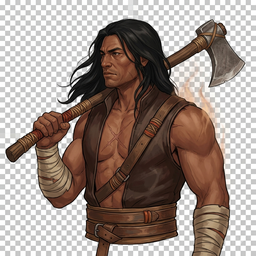
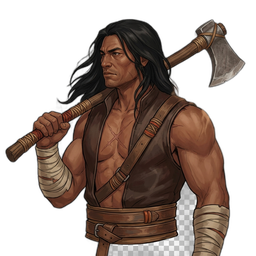
Fix transparansi art Berserker + restrukturisasi layout subclass detail
BUG FIX: gambar dari Gemini yang diupload sebelumnya ternyata BUKAN transparent PNG
asli - checkerboard yang keliatan itu digambar sebagai pixel biasa (alpha selalu 255,
fully opaque). Diproses ulang pakai rembg (AI background removal) supaya alpha channel
beneran bervariasi (0-255), baru di-crop+resize ke 256x256 & 512x1024.

LAYOUT: Classes/Show.jsx dirombak -
- Avatar sekarang bersebelahan dengan Stats (row 2 kolom)
- Full Body bersebelahan dengan Skill Fisik/Magic/Ultimate (sticky di sisi kiri
  saat scroll skill list)
- ArtUploadSlot dirender 2 layer: background (bawah) + karakter transparan (atas,
  object-fit contain biar gak terpotong/stretch)
- Avatar pakai background warna solid (tint warna class) sementara
- Full Body pakai background scene dari file yang diupload user (fullbody-bg.jpg,
  shared asset semua subclass) - disimpan di public/images/subclasses/backgrounds/

Catatan: avatar-bg.jpg (dari avatar.png yang diupload) disiapkan di folder tapi
belum dipakai - avatar masih pakai warna solid dulu sesuai instruksi 'sementara'.

diff --git a/resources/js/Pages/Classes/Show.jsx b/resources/js/Pages/Classes/Show.jsx
@@ -9,7 +9,7 @@ const CLASS_META = {
     saint: { accent: '#c9a24b' },
 };
 
-function ArtUploadSlot({ label, spec, currentUrl, fieldName, uploadUrl, aspect }) {
+function ArtUploadSlot({ label, spec, currentUrl, fieldName, uploadUrl, aspect, background }) {
     const inputRef = useRef(null);
     const { setData, progress, errors } = useForm({ [fieldName]: null });
 
@@ -42,19 +42,23 @@ function ArtUploadSlot({ label, spec, currentUrl, fieldName, uploadUrl, aspect }
                 style={{
                     position: 'relative',
                     aspectRatio: aspect,
-                    background: currentUrl ? `#000 url(${currentUrl}) center/cover no-repeat` : 'var(--bg-panel)',
-                    border: currentUrl ? '1px solid var(--border-subtle)' : '1px dashed var(--border-subtle)',
+                    background,
+                    border: '1px solid var(--border-subtle)',
                     borderRadius: 10,
-                    display: 'flex',
-                    alignItems: 'center',
-                    justifyContent: 'center',
                     overflow: 'hidden',
                 }}
             >
+                {currentUrl && (
+                    <img
+                        src={currentUrl}
+                        alt={label}
+                        style={{ position: 'absolute', inset: 0, width: '100%', height: '100%', objectFit: 'contain' }}
+                    />
+                )}
                 {!currentUrl && (
                     <div
                         onClick={openPicker}
-                        style={{ position: 'absolute', inset: 0, display: 'flex', alignItems: 'center', justifyContent: 'center', cursor: 'pointer', color: 'var(--text-muted)', fontSize: '0.8rem' }}
+                        style={{ position: 'absolute', inset: 0, display: 'flex', alignItems: 'center', justifyContent: 'center', cursor: 'pointer', color: 'var(--text-muted)', fontSize: '0.8rem', background: 'rgba(11,12,18,0.35)' }}
                     >
                         Klik atau drop gambar di sini
                     </div>
@@ -125,6 +129,11 @@ export default function Show({ subclass }) {
     const magicSkills = subclass.skills.filter((s) => s.tier !== 3 && s.scaling_stat === 'magic');
     const ultimateSkills = subclass.skills.filter((s) => s.tier === 3);
 
+    // Avatar: sementara pakai warna solid (tint warna class) sambil nunggu background art per-subclass.
+    const avatarBackground = `radial-gradient(circle at 50% 30%, ${accent}2e, var(--bg-panel) 75%)`;
+    // Full body: pakai background scene yang diupload (shared asset, dipakai semua subclass untuk sekarang).
+    const fullBodyBackground = "url('/images/subclasses/backgrounds/fullbody-bg.jpg') center/cover no-repeat";
+
     return (
         <Layout>
             <Head title={subclass.name} />
@@ -138,7 +147,7 @@ export default function Show({ subclass }) {
                         <img
                             src={subclass.avatar_path}
                             alt={subclass.name}
-                            style={{ width: 64, height: 64, borderRadius: '50%', objectFit: 'cover', border: `2px solid ${accent}`, flexShrink: 0 }}
+                            style={{ width: 64, height: 64, borderRadius: '50%', objectFit: 'cover', border: `2px solid ${accent}`, flexShrink: 0, background: 'var(--bg-panel)' }}
                         />
                     ) : (
                         <div className="rpg-badge-hex" style={{ '--accent': accent, width: 64, height: 64, fontSize: '1.6rem' }}>
@@ -158,44 +167,38 @@ export default function Show({ subclass }) {
                     <p className="rpg-flavor-note" style={{ color: accent }}>{subclass.flavor_bonus}</p>
                 )}
 
-                <div className="row g-3 my-4">
-                    {[
-                        ['Physical Damage', subclass.base_physical_damage, '#b8433a'],
-                        ['Physical Defense', subclass.base_physical_defense, '#c98a3a'],
-                        ['Magic Damage', subclass.base_magic_damage, '#7269d1'],
-                        ['Magic Defense', subclass.base_magic_defense, '#3f8c94'],
-                    ].map(([label, val, color]) => (
-                        <div className="col-6 col-md-3" key={label}>
-                            <div className="rpg-card text-center" style={{ '--accent': color }}>
-                                <div style={{ fontFamily: 'var(--font-mono)', fontSize: '1.6rem', fontWeight: 600, color }}>
-                                    {val}
-                                </div>
-                                <div className="rpg-power-type mt-1">{label}</div>
-                            </div>
-                        </div>
-                    ))}
-                </div>
-
-                <div className="row g-4 mb-4">
+                {/* Avatar bersebelahan dengan Stats */}
+                <div className="row g-4 my-4 align-items-stretch">
                     <div className="col-md-4">
                         <ArtUploadSlot
                             label="Avatar"
-                            spec="256×256, crop bahu ke atas"
+                            spec="256×256"
                             currentUrl={subclass.avatar_path}
                             fieldName="avatar"
                             uploadUrl={route('subclass.avatar', subclass.id)}
                             aspect="1 / 1"
+                            background={avatarBackground}
                         />
                     </div>
-                    <div className="col-md-4">
-                        <ArtUploadSlot
-                            label="Full Body"
-                            spec="512×1024, telapak kaki di bawah"
-                            currentUrl={subclass.full_body_path}
-                            fieldName="full_body"
-                            uploadUrl={route('subclass.fullbody', subclass.id)}
-                            aspect="1 / 2"
-                        />
+                    <div className="col-md-8">
+                        <div className="rpg-skill-group-title">Stats</div>
+                        <div className="row g-3 h-100">
+                            {[
+                                ['Physical Damage', subclass.base_physical_damage, '#b8433a'],
+                                ['Physical Defense', subclass.base_physical_defense, '#c98a3a'],
+                                ['Magic Damage', subclass.base_magic_damage, '#7269d1'],
+                                ['Magic Defense', subclass.base_magic_defense, '#3f8c94'],
+                            ].map(([label, val, color]) => (
+                                <div className="col-6" key={label}>
+                                    <div className="rpg-card text-center" style={{ '--accent': color }}>
+                                        <div style={{ fontFamily: 'var(--font-mono)', fontSize: '1.6rem', fontWeight: 600, color }}>
+                                            {val}
+                                        </div>
+                                        <div className="rpg-power-type mt-1">{label}</div>
+                                    </div>
+                                </div>
+                            ))}
+                        </div>
                     </div>
                 </div>
 
@@ -203,32 +206,50 @@ export default function Show({ subclass }) {
                     Default penggunaan tempur: pilih 3 dari Skill Fisik / Magic, ditambah 1 Ultimate.
                 </p>
 
-                {physicalSkills.length > 0 && (
-                    <div className="mb-4">
-                        <div className="rpg-skill-group-title">Skill Fisik</div>
-                        <div className="row g-3">
-                            {physicalSkills.map((s) => <SkillCard skill={s} accent={accent} key={s.id} />)}
+                {/* Full Body bersebelahan dengan Skill/Magic/Ultimate */}
+                <div className="row g-4">
+                    <div className="col-md-4">
+                        <div style={{ position: 'sticky', top: 90 }}>
+                            <ArtUploadSlot
+                                label="Full Body"
+                                spec="512×1024"
+                                currentUrl={subclass.full_body_path}
+                                fieldName="full_body"
+                                uploadUrl={route('subclass.fullbody', subclass.id)}
+                                aspect="1 / 2"
+                                background={fullBodyBackground}
+                            />
                         </div>
                     </div>
-                )}
+                    <div className="col-md-8">
+                        {physicalSkills.length > 0 && (
+                            <div className="mb-4">
+                                <div className="rpg-skill-group-title">Skill Fisik</div>
+                                <div className="row g-3">
+                                    {physicalSkills.map((s) => <SkillCard skill={s} accent={accent} key={s.id} />)}
+                                </div>
+                            </div>
+                        )}
 
-                {magicSkills.length > 0 && (
-                    <div className="mb-4">
-                        <div className="rpg-skill-group-title">Magic</div>
-                        <div className="row g-3">
-                            {magicSkills.map((s) => <SkillCard skill={s} accent={accent} key={s.id} />)}
-                        </div>
-                    </div>
-                )}
+                        {magicSkills.length > 0 && (
+                            <div className="mb-4">
+                                <div className="rpg-skill-group-title">Magic</div>
+                                <div className="row g-3">
+                                    {magicSkills.map((s) => <SkillCard skill={s} accent={accent} key={s.id} />)}
+                                </div>
+                            </div>
+                        )}
 
-                {ultimateSkills.length > 0 && (
-                    <div className="mb-4">
-                        <div className="rpg-skill-group-title">Ultimate</div>
-                        <div className="row g-3">
-                            {ultimateSkills.map((s) => <SkillCard skill={s} accent={accent} key={s.id} />)}
-                        </div>
+                        {ultimateSkills.length > 0 && (
+                            <div className="mb-4">
+                                <div className="rpg-skill-group-title">Ultimate</div>
+                                <div className="row g-3">
+                                    {ultimateSkills.map((s) => <SkillCard skill={s} accent={accent} key={s.id} />)}
+                                </div>
+                            </div>
+                        )}
                     </div>
-                )}
+                </div>
             </div>
         </Layout>
     );
